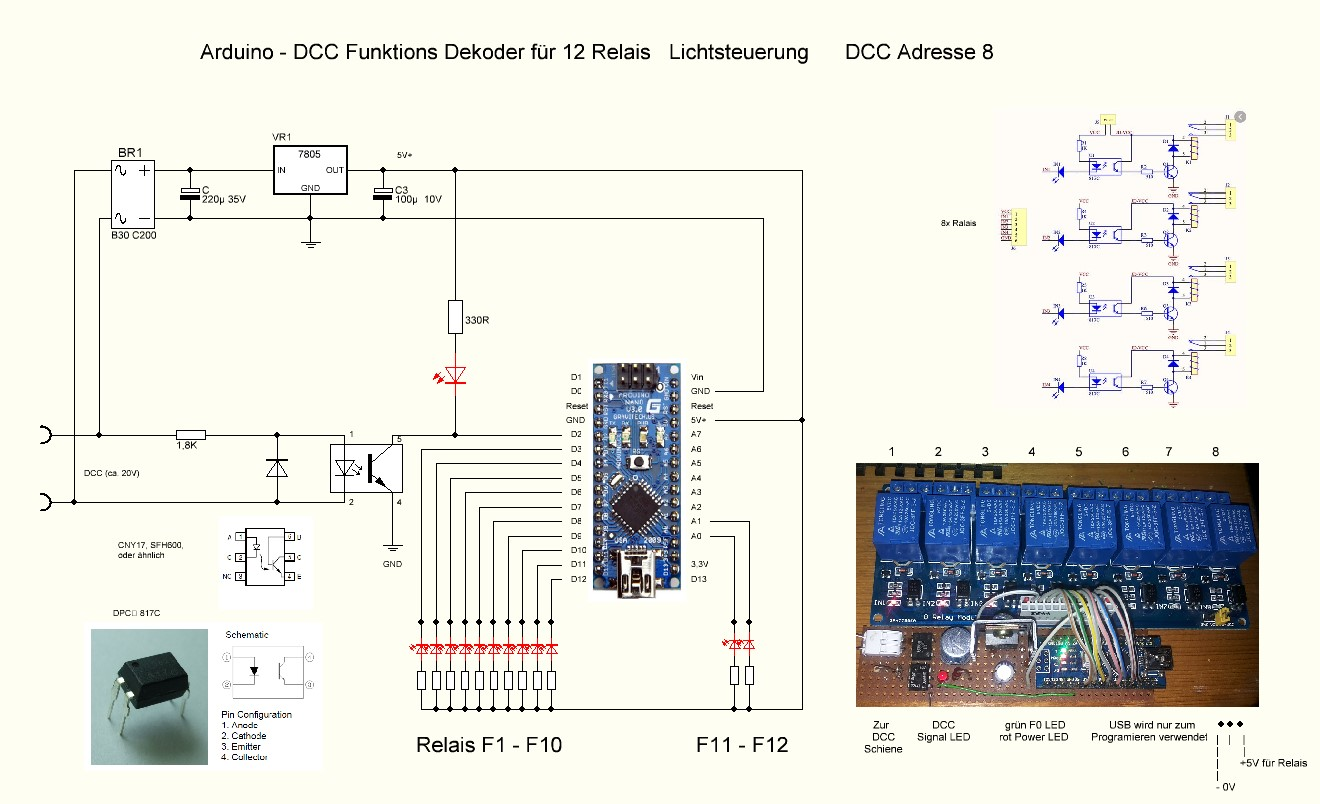
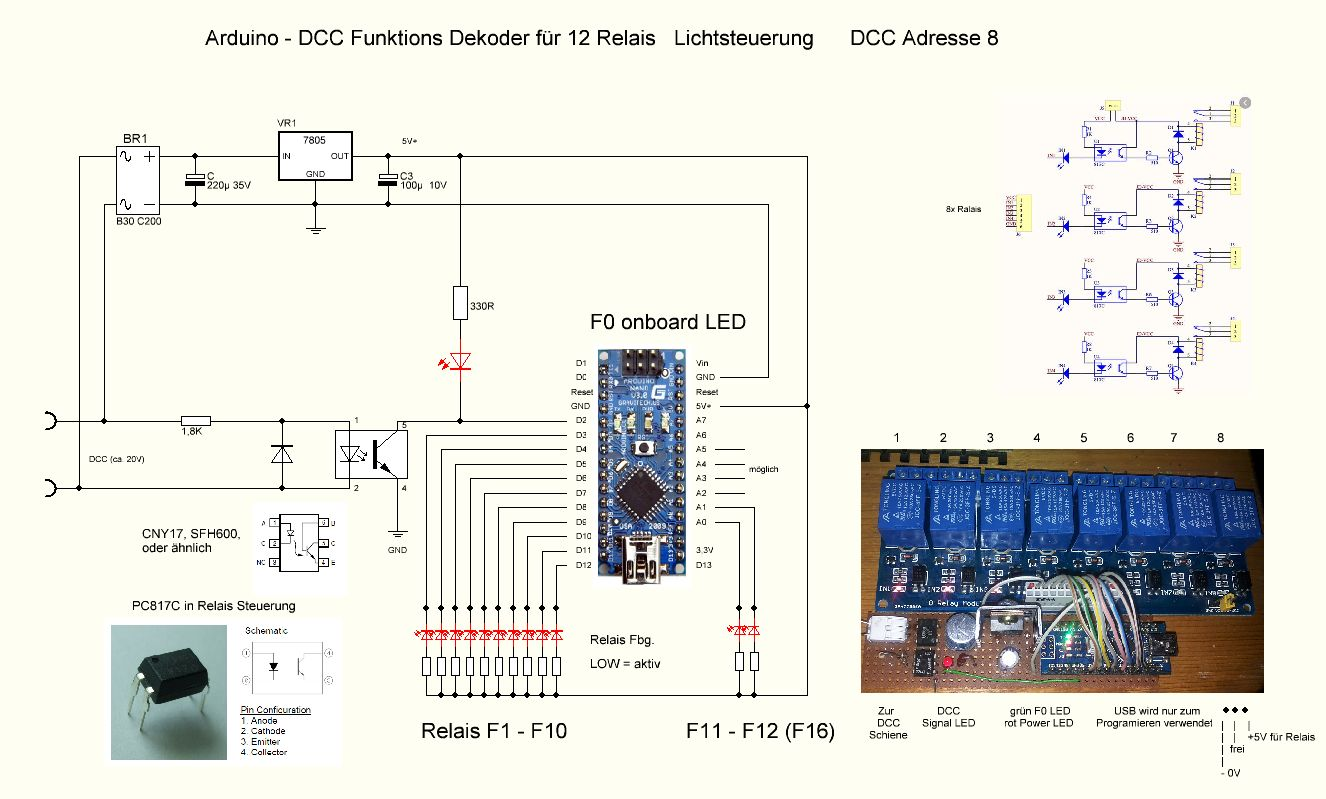
z21 Wmaus

diff --git a/Eisenbahn/WildeMaus/wildemaus.html b/Eisenbahn/WildeMaus/wildemaus.html
@@ -67,26 +67,30 @@
                 <!-- <a href="https://github.com/ToWipf/Arduino-DCC-WildeMaus/raw/master/WildeMaus_3.pdf" target="_blank"><img src="https://raw.githubusercontent.com/ToWipf/DCC-WildeMaus-Arduino/master/WildeMaus_Plan.PNG" alt="Bild" /></a> -->
             </div>
             <div>
-                <p>
-                    Quelle / Info / Basis war die "RB_DCC_Decoder_Function" aus der "Arduino_DCC_S88.zip" von
-                    <a target="_blank" href="https://rudysmodelrailway.wordpress.com/software/">rudysmodelrailway</a>
-                    - Arduino DCC, S88, and more Download link
-                    <span style="font-size:7pt">(externer Link)</span>
-                    <br>
-                </p>
-                 <p>
-                    <a target="_blank" href="https://github.com/ToWipf/Arduino-DCC-WildeMaus">WildeMaus Projekt in GitHub öffnen</a>
-  				 <span style="font-size:7pt">(bis 08.2022)</span>
-				 <p>
-	             <!-- <a target="_blank" href="https://raw.githubusercontent.com/ToWipf/Arduino-DCC-WildeMaus/master/WildeMaus.ino">Meine WildeMaus.ino</a> -->
-	             Meine 
-				 <a target="_blank" href="WildeMaus.ino">WildeMaus.ino</a> 
- 				 <span style="font-size:7pt">(neu 13.08.2022)</span>
+                 <h2>Arduino Sketch</h2>
+               <p>
+                 bis Z21PG V4.96 funktionierte dieses Sketch: "WildeMaus.ino" mit Bibliothek: <em> "DCC_Decoder.h"</em> am externen ROCO und internen TLE5206 Verstärker problemlos.
+                 <br>Quelle war die "RB_DCC_Decoder_Function" aus der "Arduino_DCC_S88.zip" von 2016-08-14
+                 <a target="_blank" href="https://rudysmodelrailway.wordpress.com/software/">rudysmodelrailway</a> - Arduino DCC, S88, and more Download link
+                 <span style="font-size:7pt">(externer Link)</span>
+                 <br> altes <a target="_blank" href="https://github.com/ToWipf/Arduino-DCC-WildeMaus">WildeMaus Projekt in GitHub öffnen</a> <span style="font-size:7pt">(bis 08.2022)</span>
+
+	             Meine angepasste <a target="_blank" href="WildeMaus.ino">WildeMaus.ino</a> 
+ 				 <span style="font-size:7pt">(13.08.2022)</span>
 				 <br>
 				 Link zu verwenden DCC_Decoder.h library: 
 				 <a target="_blank" href="https://github.com/MynaBay/DCC_Decoder">DCC_Decoder.h</a>
 				 <span style="font-size:7pt">(externer Link)</span>
                 </p>
+				<p>
+				<br>ab Z21PG V4.98 wurde auf ein Decoder Sketch mit <em> NmraDcc.h</em>  Bibliothek gewechselt, zu beziehen von github.com  <a target="_blank" href="https://github.com/mrrwa/NmraDcc"> NmraDcc.h</a>
+			<span style="font-size:7pt">(externer Link)</span>
+            <br> dieses funktioniert mit allen Z21PG Versionen, aber nur am internen Z21PG TLE5206 Verstärker,
+			<br> meine abgeändertes Sketch 
+            <a href="Wmaus_Dec_17LED_1Ftn.zip" target="_blank" title="Wmaus_Dec_17LED_1Ftn.zip">Wmaus_Dec_17LED_1Ftn.zip</a> <span style="font-size:7pt">(aktualisiert 11.2023)</span>
+
+				</p>
+				
             </div>
             <div>
                 <h2>Aufbau der Wilden Maus Steuerung</h2>
@@ -128,7 +132,7 @@
                     <li>
                         <a class="icon-mail" href="mailto:jofri.bahn@web.de">e-Mail</a>
                     </li>
-                    <li>Stand: 08.2022</li>
+                    <li>Stand: 11.2023</li>
                 </ul>
             </div>
     </body>

diff --git a/Eisenbahn/Relais/relais.html b/Eisenbahn/Relais/relais.html
@@ -20,25 +20,26 @@
         <div>
             <br>
             <h1>Arduino DCC Funktionsdecoder für 12 Relais</h1>
-            <h2>über diese Relais werden die Beleuchtungen von Häusern und Straßenlaternen</h2>
+            <h2>über diese Relais werden die Beleuchtungen von Häusern und Straßenlaternen gesteuert</h2>
 			<p>	für die Relaisteuerung verwende ich einen Arduino Nano als DCC Decoder, welcher mit einer Lok Adresse und den Funktionstasten F0, F1 - F12 die Relais ansteuert.
 			</p>
 			<p>	
-			bis Z21PG V4.96 funktionierte dieses Sketch: "RB_DCC_Decoder_Function.ino" mit Bibliothek: <em> "DCC_Decoder.h"</em>  aus der "Arduino_DCC_S88.zip" von 2016-08-14 am ROCO Verstärker problemlos.
+			<br>bis Z21PG V4.96 funktionierte dieses Sketch: "RB_DCC_Decoder_Function.ino" mit Bibliothek: <em> "DCC_Decoder.h"</em>  aus der "Arduino_DCC_S88.zip" von 2016-08-14 am externen ROCO und internen TLE5206 Verstärker problemlos.
             <br>Quelle:
             <a target="_blank" class="big" href="https://rudysmodelrailway.wordpress.com/software/">rudysmodelrailway </a> - Arduino + ATtiny DCC Decoder / DCC Sniffer / S88 Software download (Oktober 2015) <span style="font-size:7pt">(externer Link)</span>
             <br> meine abgeändertes Sketch
             <a href="RB_DCC_Decoder_Function.ino" target="_blank" title="RB_DCC_Decoder_Function.ino">RB_DCC_Decoder_Function.ino</a> <span style="font-size:7pt">(aktualisiert 10.2021)</span>, 
 
-			Link zu verwenden DCC_Decoder.h Library: 
+			Link zu der verwenden DCC_Decoder.h Library: 
 			<a target="_blank" href="https://github.com/MynaBay/DCC_Decoder">DCC_Decoder.h</a>
 			<span style="font-size:7pt">(externer Link)</span>
-            </p>
+            <br>Ursache, die Bibliothek "DCC_Decoder.h" macht Probleme mit RailCom.
+			</p>
 			<p>	
 			<br>
 			ab Z21PG V4.98 wurde auf ein Decoder Sketch mit <em> NmraDcc.h</em>  Bibliothek gewechselt, zu beziehen von github.com  <a target="_blank" href="https://github.com/mrrwa/NmraDcc"> NmraDcc.h</a>
 			<span style="font-size:7pt">(externer Link)</span>
-            <br> dieses funktioniert mit allen Z21PG Versionen am internen TLE5206,
+            <br> dieses funktioniert mit allen Z21PG Versionen, aber nur am internen Z21PG TLE5206 Verstärker,
 			<br> meine abgeändertes Sketch 
             <a href="Relais12_Dec_17LED_1Ftn.zip" target="_blank" title="Relais12_Dec_17LED_1Ftn.zip">Relais12_Dec_17LED_1Ftn.zip</a> <span style="font-size:7pt">(aktualisiert 11.2023)</span>
 			</p>
